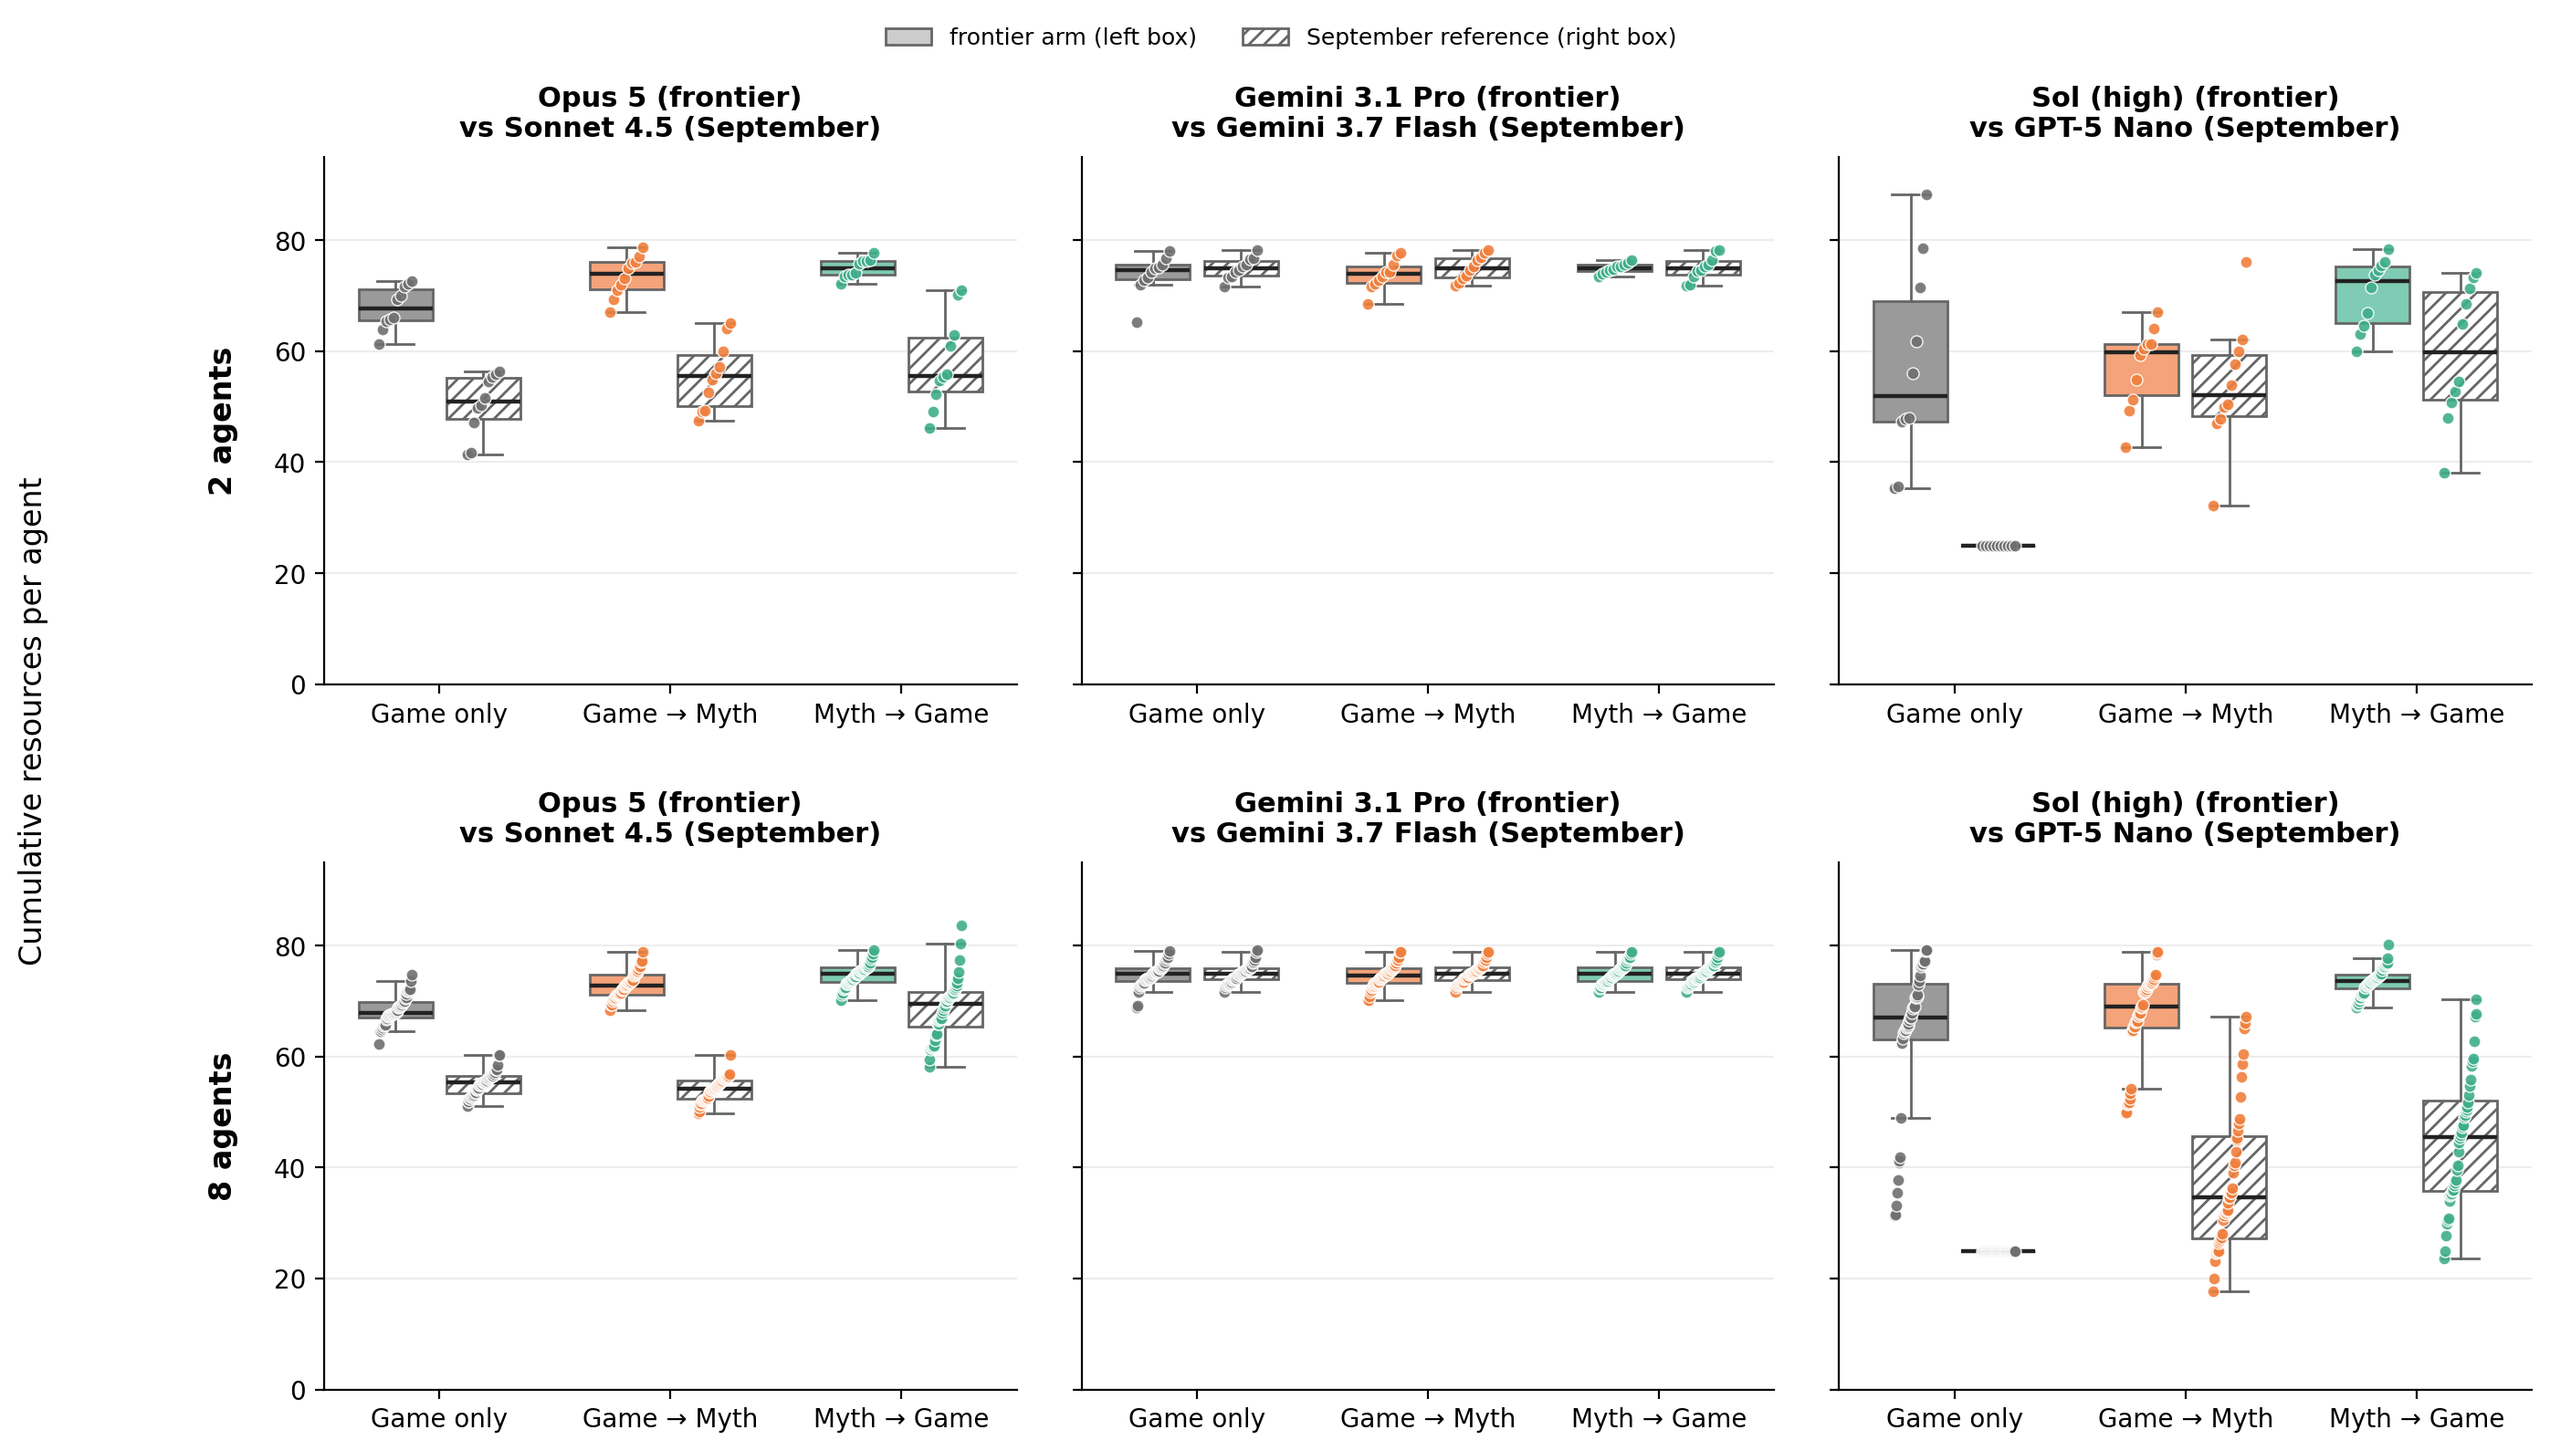
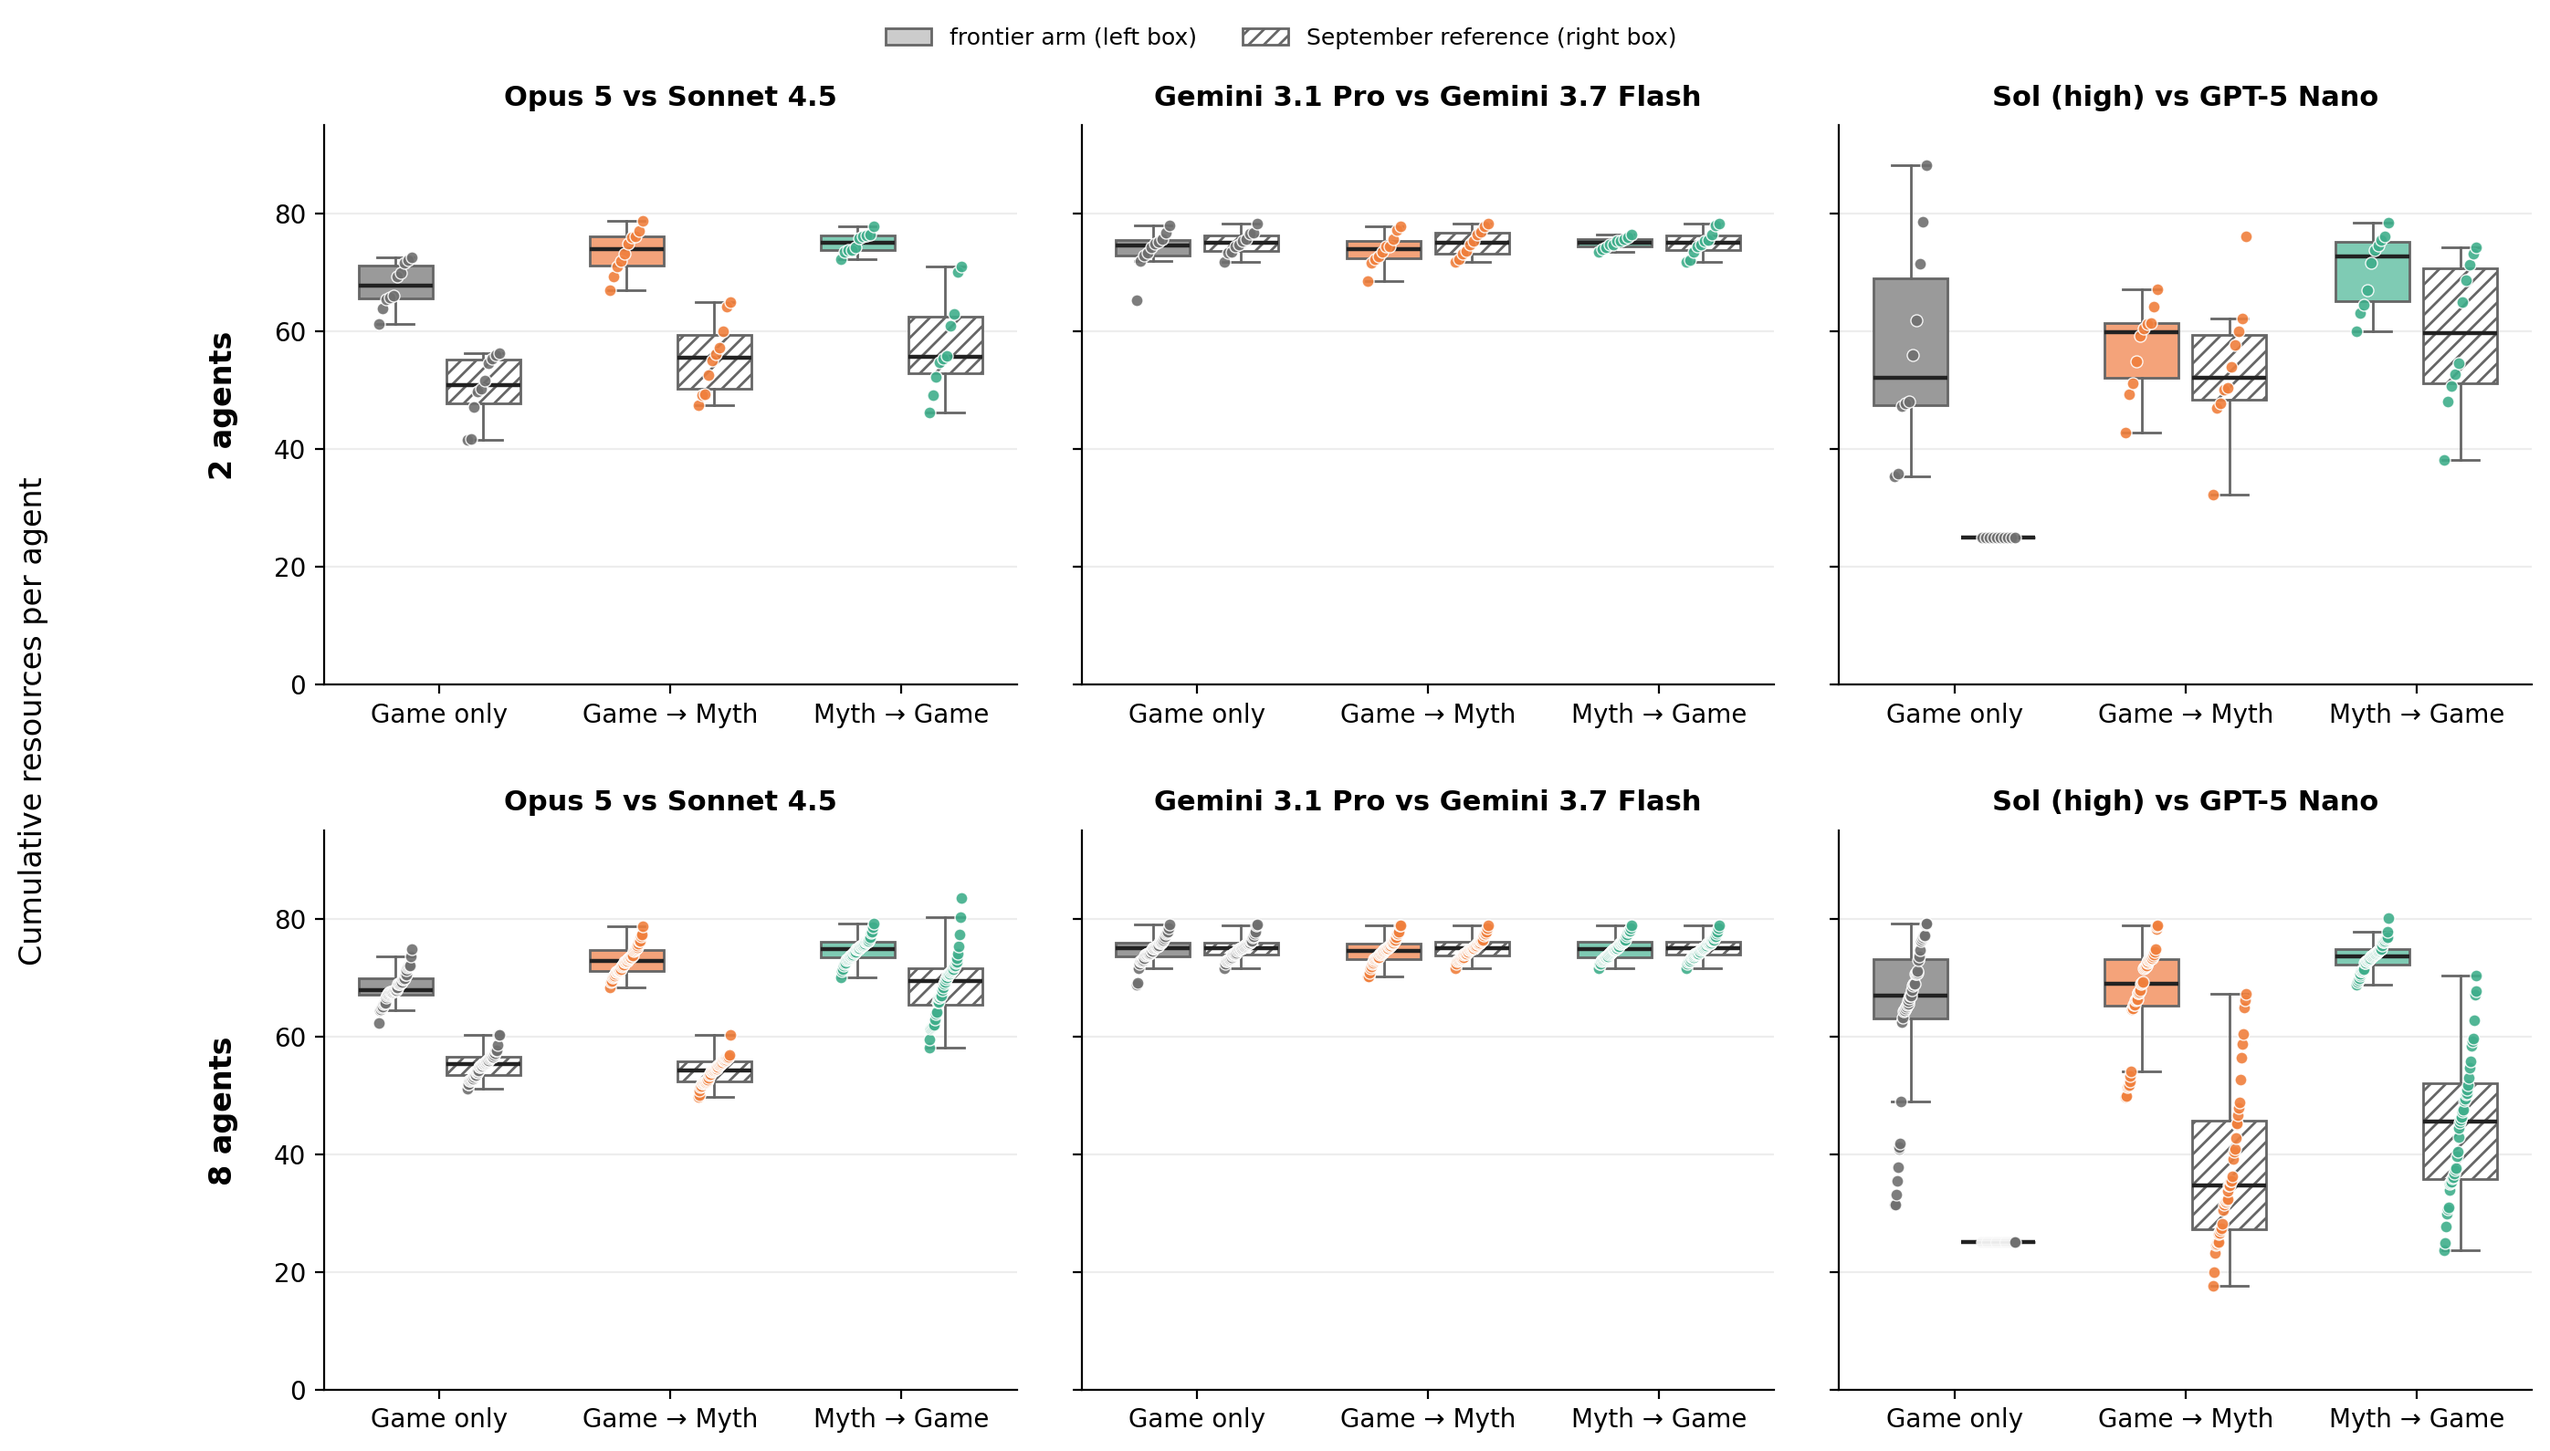
Frontier comparison panels: 'Opus 5 vs Sonnet 4.5' (legend carries frontier/September)

diff --git a/analyses/render_paper_figures_clean.py b/analyses/render_paper_figures_clean.py
@@ -65,7 +65,10 @@ def set_title(self, label, *args, **kwargs):
     # ("Opus 5 (frontier, n = 5 runs)" -> "Opus 5 (frontier)") so model names stay.
     lines = [l for l in str(label).split("\n") if not re.search(r"(^|·)\s*(homogeneous|mixed)\b|n\s*=\s*\d+\s*per box", l)]
     lines = [re.sub(r",?\s*n\s*=\s*\d+(\s*(runs?|per (box|panel|point)))?", "", l).replace("()", "").strip() for l in lines]
-    return _set_title(self, "\n".join(l for l in lines if l), *args, **kwargs)
+    # "Opus 5 (frontier)" / "vs Sonnet 4.5 (September)" -> "Opus 5 vs Sonnet 4.5" (the legend says which is which).
+    lines = [re.sub(r"\s*\((frontier|September)\)", "", l) for l in lines if l]
+    label = "\n".join(lines).replace("\nvs ", " vs ")
+    return _set_title(self, label, *args, **kwargs)
 
 
 def savefig(self, fname, *args, **kwargs):
